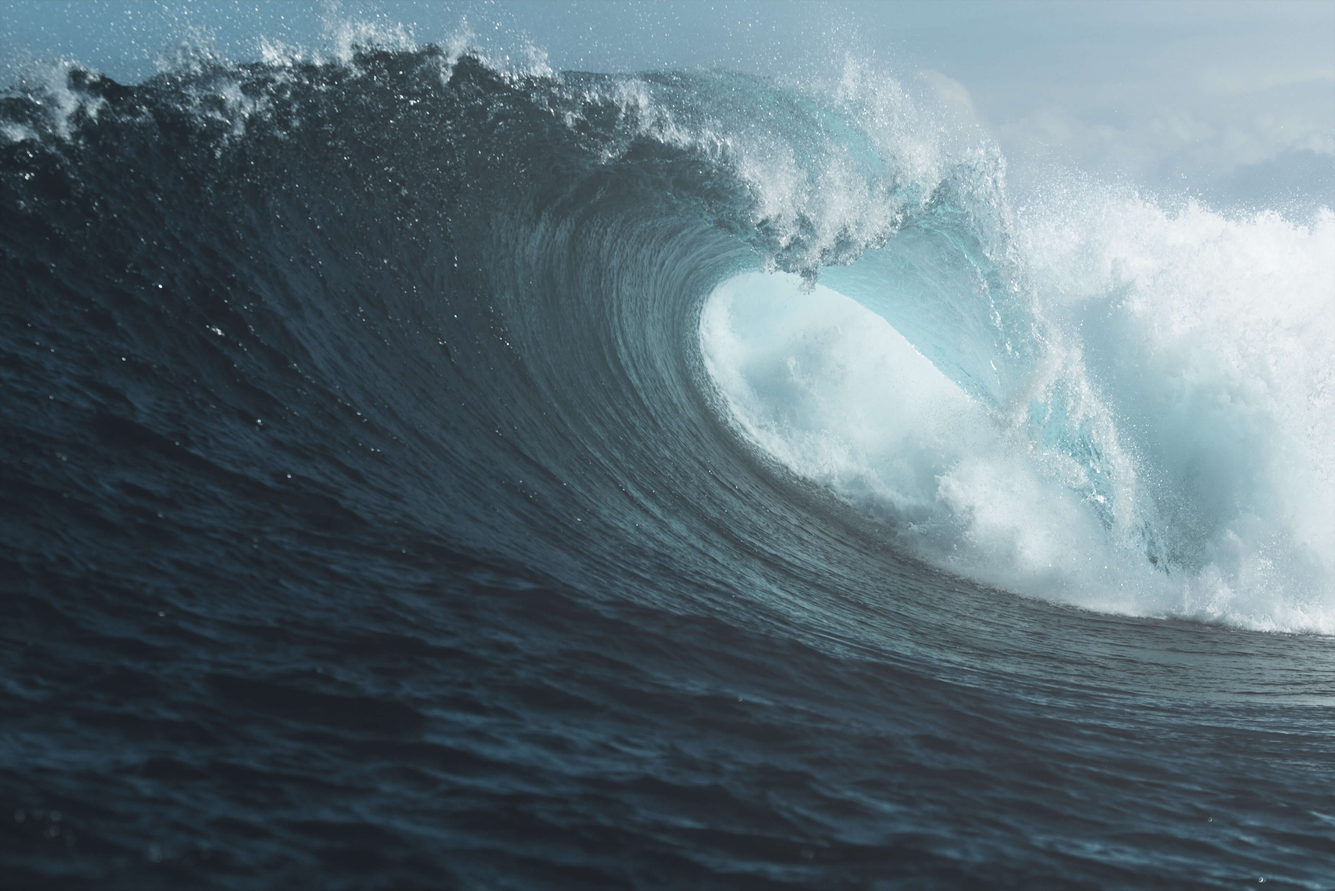
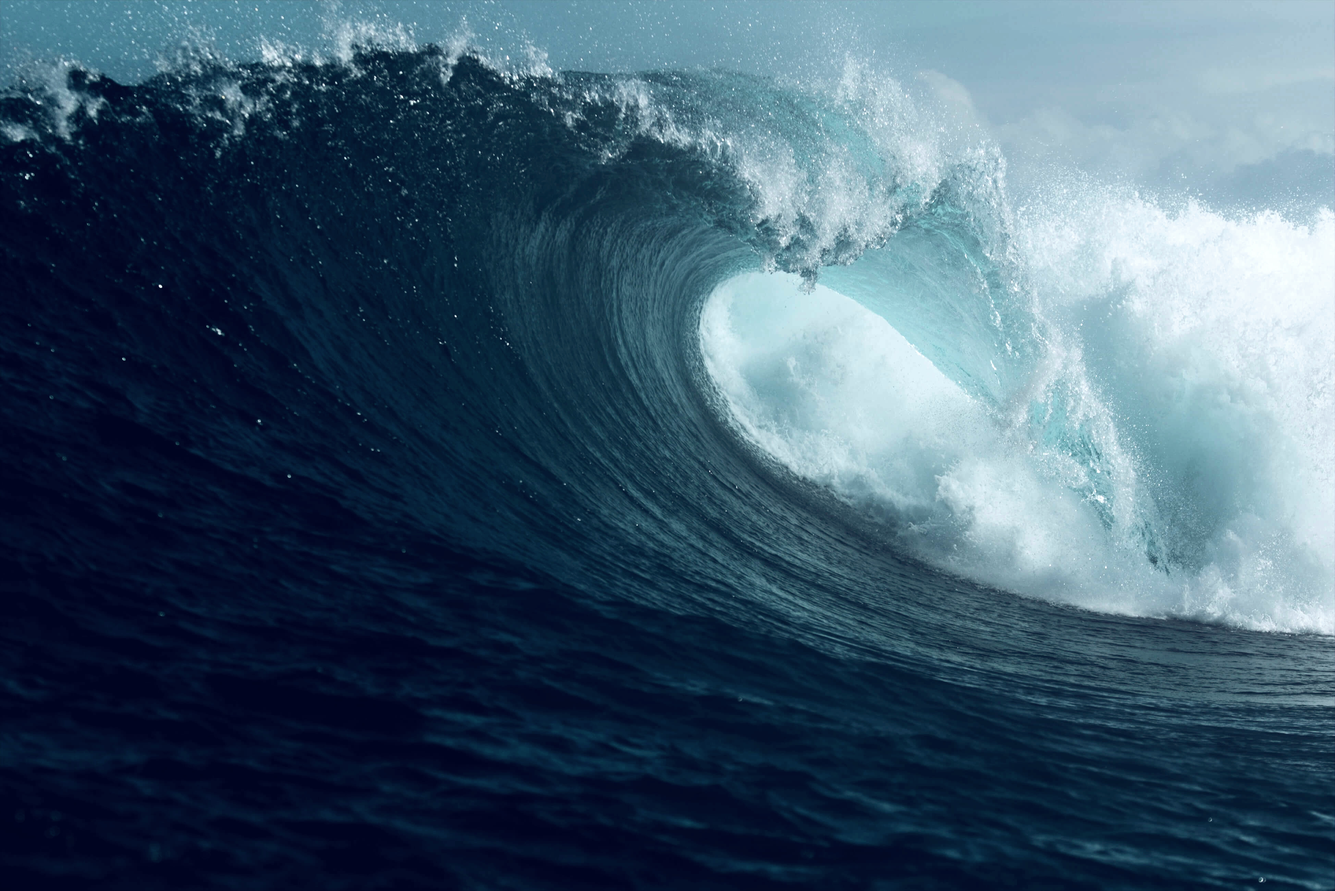
[10.0.2804] New wallpaper, development reset

diff --git a/Apps/Terminal.js b/Apps/Terminal.js
@@ -17,7 +17,7 @@ const terminal = document.getElementById('terminal');
       },
       echo: (args) => args.join(' '),
       date: () => new Date().toLocaleString(),
-      ver: () => {createOutputLine("Envy 10 2026 Update 10.0.2776");},
+      ver: () => {createOutputLine("Envy 10 2026 Update 10.0.2804");},
       clear: () => { terminal.innerHTML = ''; },
       cls: () => { terminal.innerHTML = ''; },
     };
@@ -73,6 +73,6 @@ const terminal = document.getElementById('terminal');
     };
 
     // Initialize the terminal
-    createOutputLine("Envy [Version 10.0.2776]");
+    createOutputLine("Envy [Version 10.0.2804]");
     createOutputLine("Copyright (C) Envy Group 2022-2026")
     createInputLine();

diff --git a/UI/desktop.js b/UI/desktop.js
@@ -3,7 +3,7 @@ loadScript('./Libs/bg.js')
 var content = document.createElement("div");
 content.innerHTML = `
 <div id="desktop" style="cursor: url('./Assets/cursor/cursor.cur'),auto !important;">
-    <p class="watermark">10.0.2776 Alpha</p>
+    <p class="watermark">10.0.2804 Alpha</p>
     <div class="taskbar" style="cursor: url('./Assets/cursor/cursor.cur'),auto !important;">
         <div class="sm" onclick="semshow()">
         <img src="./Assets/envy.svg" style="cursor: url('./Assets/cursor/cursor.cur'),auto !important;" height="26px" class="smst">

diff --git a/core.js b/core.js
@@ -12,7 +12,7 @@ console.log(
 
 const SysInfo = {
     string: "Envy 10 2026 Update",
-    version: "10.0.2776",
+    version: "10.0.2804",
     extra: "Alpha",
     codename: "Rhenium"
 };

diff --git a/README.MD b/README.MD
@@ -1,7 +1,7 @@
 <p>Developer? We reccomend reading up on the <a>Envy WebUI API Documentation</a>.</p>
 <div align="center">
 <h2>THIS IS A PRERELEASE VERSION!! EXPECT BUGS!!</h2>
-<h1>Envy WebUI 2026 Update (10.0.2776)</h1>
+<h1>Envy WebUI 2026 Update (10.0.2804)</h1>
 <p>This repo contains the base system to run Correr and GWM.</p>
 <img src="Assets/demo.png" height="400px">
 </div>
